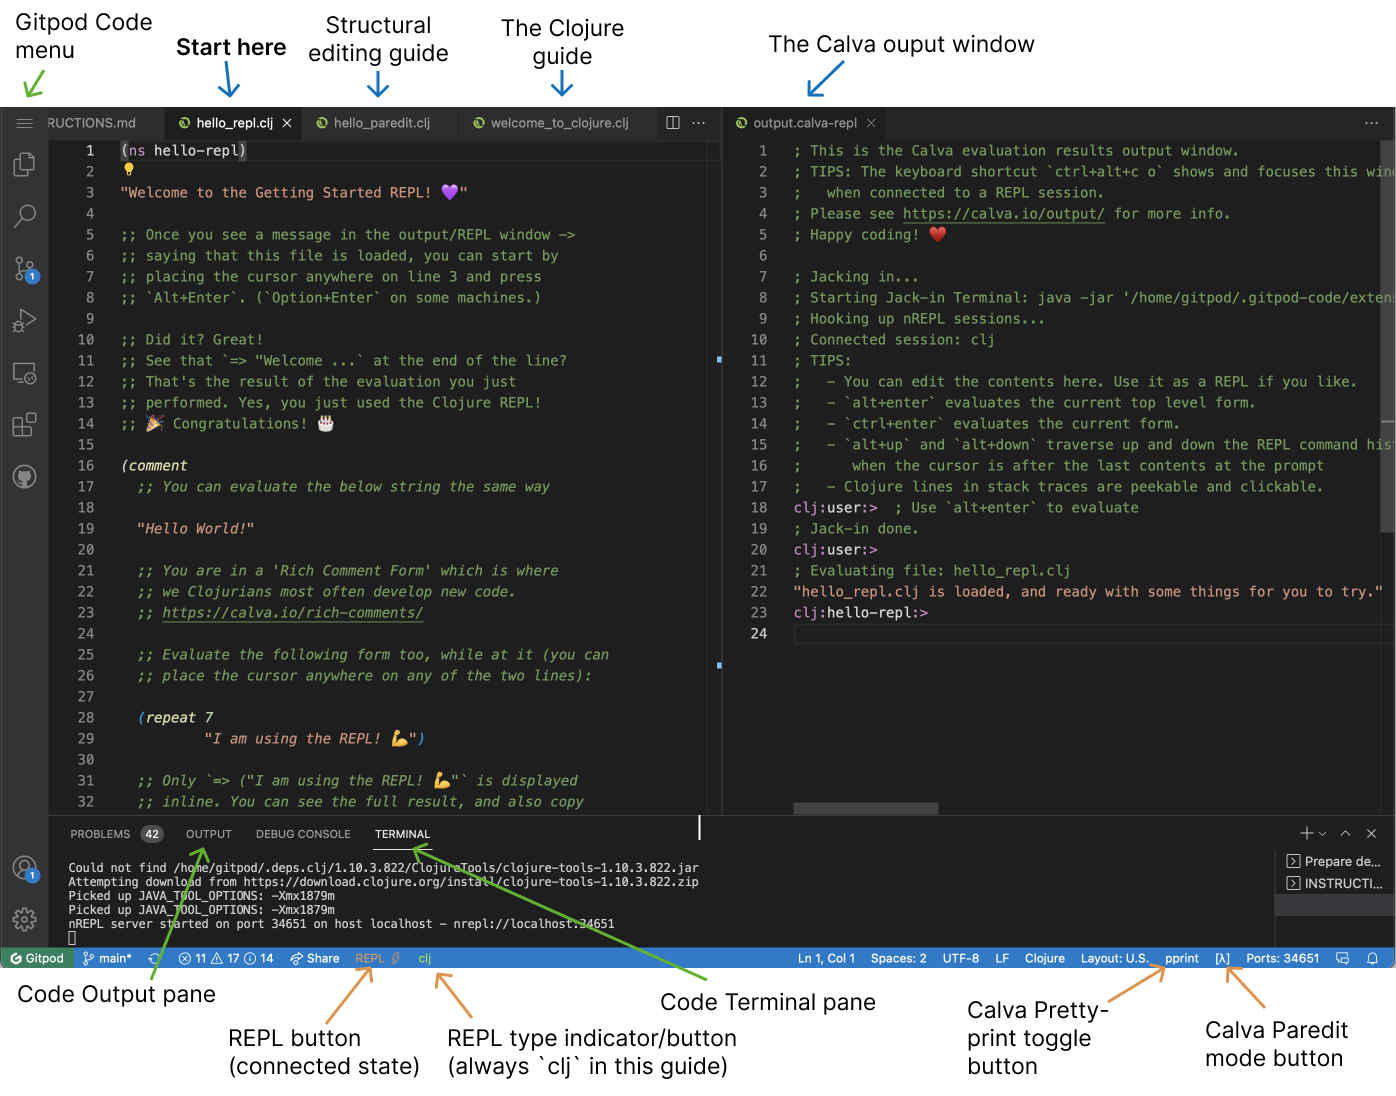
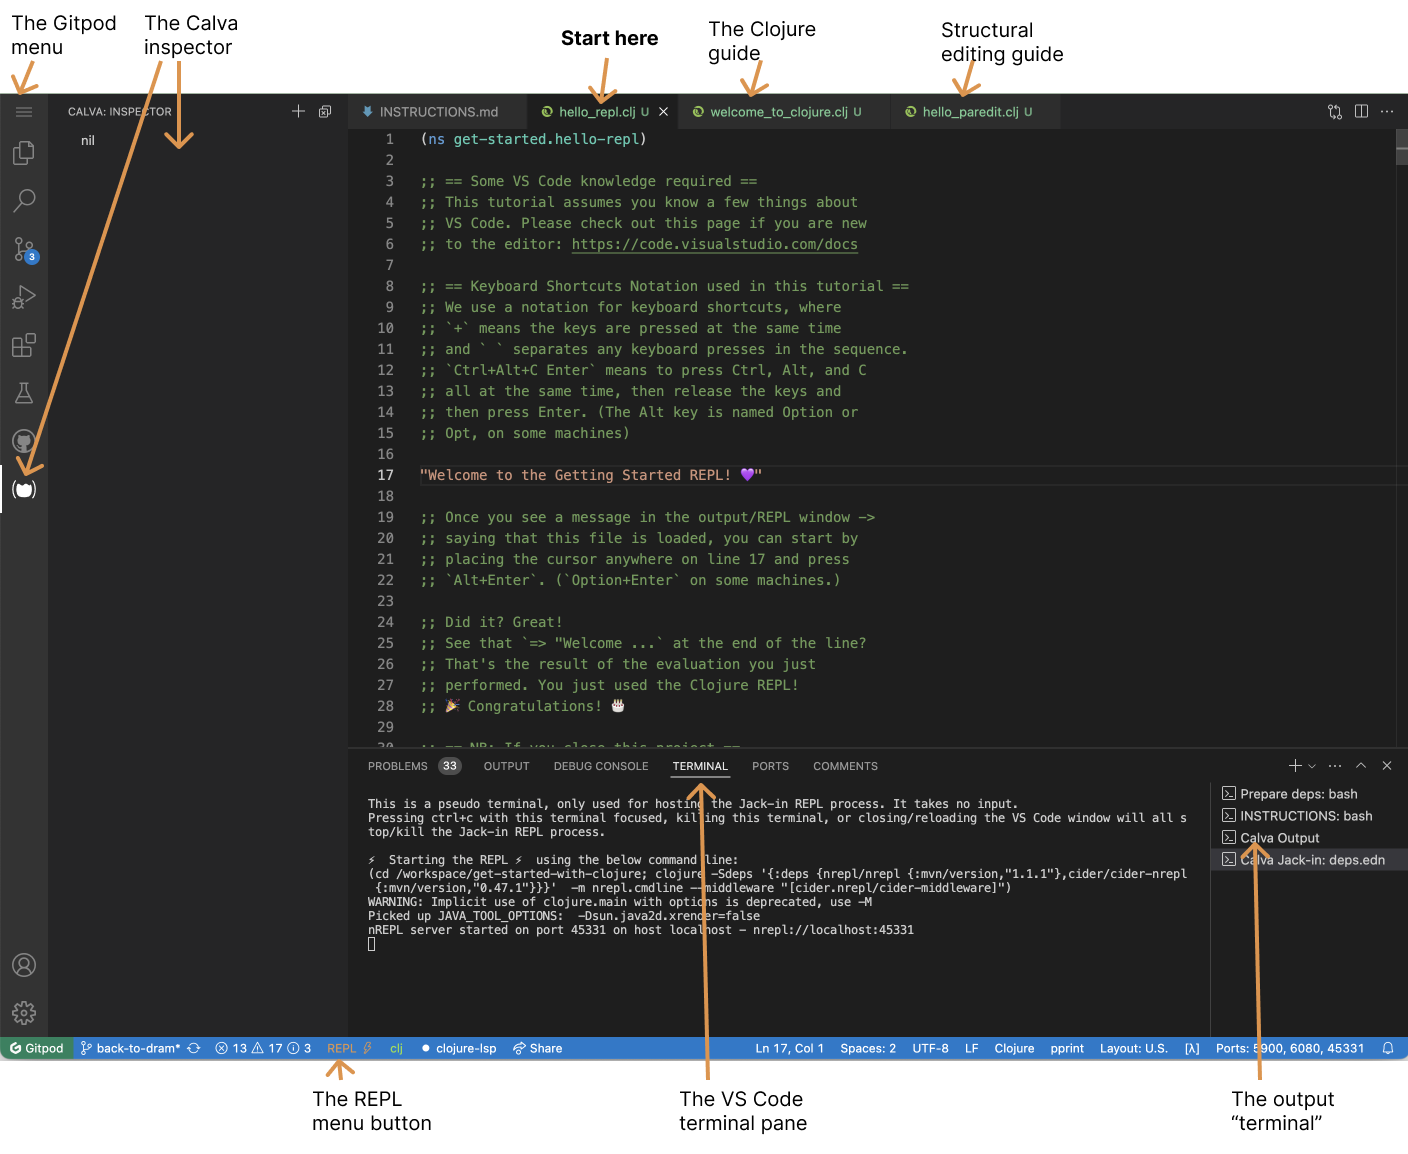
Update instructions

Changed region(s): [[0.0, 0.0, 1.0, 0.6204], [0.0, 0.6515, 1.0, 0.9927], [0.9241, 0.3412, 0.9549, 0.3723]]

diff --git a/doc/INSTRUCTIONS.md b/doc/INSTRUCTIONS.md
@@ -12,10 +12,7 @@ The files contain a mix of guiding text and snippets of code. You will use the R
 
 Fire up the Getting Started REPL:
 
-0. Give the guides some space:
-   * Maximize the browser window.
-   * Close thee Explorer pane.
-   * Shrink the Output/Terminal/Etc pane to about a third of what it is now.
+0. Give the guides some space by maximizing the browser window
 1. Click the **REPL** button in the status bar
 
    ![VS Code Statusbar with Clojure REPL button](status-bar-repl-button.png)
@@ -28,7 +25,7 @@ Fire up the Getting Started REPL:
 1. Select **Create a ”Getting Started“ REPL project** from the quick pick menu.
 
    ![The Calva REPL Menu](repl-menu.png)
-1. You will be asked for a folder to create the project in. The current workspace root will work fine for this.
+1. You will be asked for a folder to create the project in. The current workspace root will work fine for this. *NB: The `./doc/` folder may be preselected.*
 
    ![Choose OK](get-started-folder-dialog.png)
 
@@ -39,7 +36,13 @@ Fire up the Getting Started REPL:
 
 If the `hello_repl.clj` tab is not active when the Calva output window has printed that the file is loaded, then activate the tab.
 
-If things seem to work (it looks like the picture shows) you can close the Problems/Output/Terminal area (resize it to zero), to make more room for the guide content. Both the VS Code Output and Terminal panes can contain messages that is needed when you think something has gone wrong and want to ask/report about it.
+### Evaluation results
+
+If things seem to work (it looks like the picture shows) you can select the **Calva Output** “terminal” in the Terminal pane. (It's not a real terminal taking input, it's just where Calva is configured to print output).
+
+Evaluation results will also be added to the **Calva Inspector**. Each entry has context buttons letting you *inspect*, *copy*, etcetera. The inspector is extra handy when something evaluates to a datastructure, like a list or a map.
+
+That's it, please start with the instructions in `hello_repl.clj`.
 
 Happy Interactive Programming! 🎉
 
